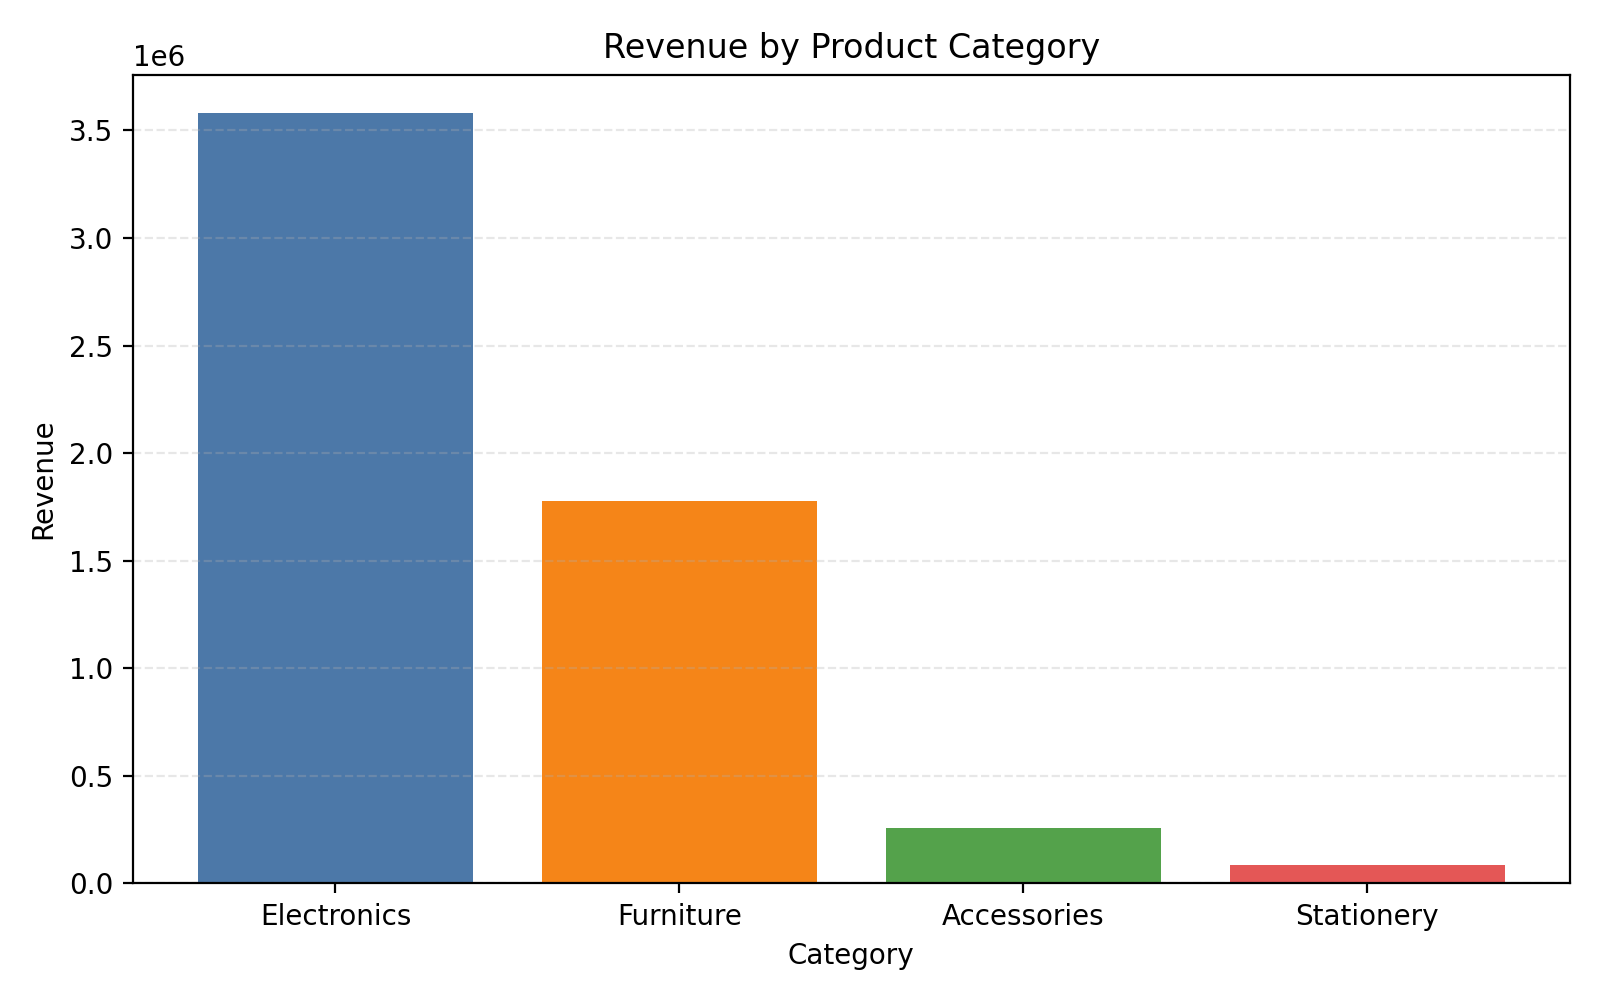
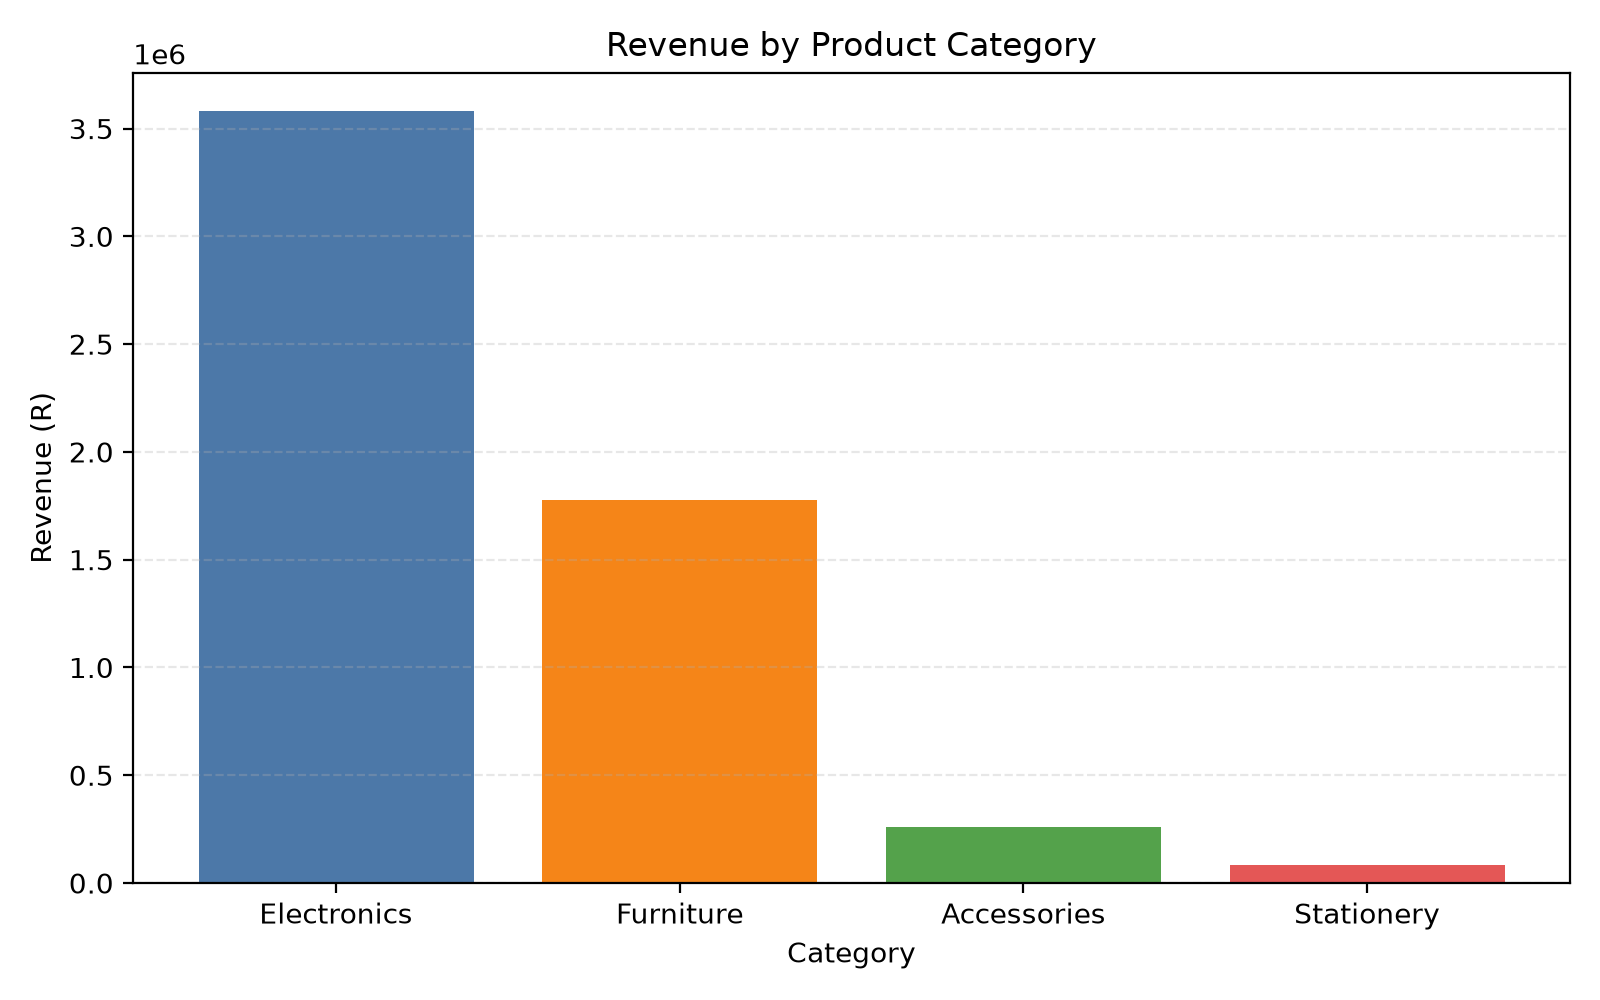
feat: expand dashboard metrics and add Docker support
- Add customer, product, driver, vehicle, order-status, and delivery-time KPIs
- Display South African Rand (R) in dashboard summaries and charts
- Add Docker Compose setup for the app and MySQL database
- Resolve host MySQL port conflict by mapping to port 3307
- Document Docker setup and usage in README

diff --git a/python/business_insights.py b/python/business_insights.py
@@ -44,6 +44,8 @@ def calculate_business_insights(tables: dict[str, pd.DataFrame]) -> dict[str, An
     products = tables["products"].copy()
     order_items = tables["order_items"].copy()
     deliveries = tables["deliveries"].copy()
+    drivers = tables["drivers"].copy()
+    vehicles = tables["vehicles"].copy()
 
     for frame in (orders, customers, products, order_items, deliveries):
         for column in frame.columns:
@@ -62,9 +64,25 @@ def calculate_business_insights(tables: dict[str, pd.DataFrame]) -> dict[str, An
     total_revenue = float(revenue_by_category["category_revenue"].sum())
     avg_order_value = float(orders["total_amount"].mean()) if not orders.empty else 0.0
     total_orders = int(len(orders))
+    total_customers = int(customers["customer_id"].nunique())
+    total_products = int(products["product_id"].nunique())
+    total_drivers = int(drivers["driver_id"].nunique())
+    total_vehicles = int(vehicles["vehicle_id"].nunique())
     delivered_orders = int((deliveries["status"] == "Delivered").sum())
     total_deliveries = int(len(deliveries))
     delivery_success_rate = (delivered_orders / total_deliveries * 100) if total_deliveries else 0.0
+    pending_orders = int((orders["status"] == "Pending").sum()) if "status" in orders.columns else 0
+    processing_orders = int((orders["status"] == "Processing").sum()) if "status" in orders.columns else 0
+    cancelled_orders = int((orders["status"] == "Cancelled").sum()) if "status" in orders.columns else 0
+    total_order_items = int(len(order_items))
+
+    delivery_windows = deliveries.merge(orders[["order_id", "order_date"]], on="order_id", how="left")
+    delivery_windows["days_to_deliver"] = (
+        (delivery_windows["delivery_date"] - delivery_windows["order_date"]).dt.days
+    )
+    avg_delivery_days = float(
+        delivery_windows.loc[delivery_windows["status"] == "Delivered", "days_to_deliver"].mean()
+    ) if not delivery_windows.empty else 0.0
 
     revenue_by_city = (
         orders.merge(customers[["customer_id", "city"]], on="customer_id")
@@ -75,6 +93,17 @@ def calculate_business_insights(tables: dict[str, pd.DataFrame]) -> dict[str, An
         .sum()
         .rename(columns={"line_revenue": "revenue"})
         .sort_values(["city", "revenue"], ascending=[True, False])
+    )
+
+    city_revenue = (
+        orders.merge(customers[["customer_id", "city"]], on="customer_id")
+        .merge(order_items, on="order_id")
+        .merge(products[["product_id", "price"]], on="product_id")
+        .assign(line_revenue=lambda df: df["quantity"] * df["price"])
+        .groupby("city", as_index=False)["line_revenue"]
+        .sum()
+        .rename(columns={"line_revenue": "city_revenue"})
+        .sort_values("city_revenue", ascending=False)
     )
 
     customer_spend = (
@@ -96,21 +125,33 @@ def calculate_business_insights(tables: dict[str, pd.DataFrame]) -> dict[str, An
     best_category = revenue_by_category.iloc[0].to_dict() if not revenue_by_category.empty else {}
     top_customer = customer_spend.iloc[0].to_dict() if not customer_spend.empty else {}
     top_driver = delivery_per_driver.iloc[0].to_dict() if not delivery_per_driver.empty else {}
+    top_city = city_revenue.iloc[0].to_dict() if not city_revenue.empty else {}
 
     return {
         "total_orders": total_orders,
+        "total_customers": total_customers,
+        "total_products": total_products,
+        "total_drivers": total_drivers,
+        "total_vehicles": total_vehicles,
         "total_revenue": total_revenue,
         "avg_order_value": avg_order_value,
+        "avg_delivery_days": avg_delivery_days,
         "total_deliveries": total_deliveries,
         "delivered_orders": delivered_orders,
+        "pending_orders": pending_orders,
+        "processing_orders": processing_orders,
+        "cancelled_orders": cancelled_orders,
+        "total_order_items": total_order_items,
         "delivery_success_rate": delivery_success_rate,
         "revenue_by_category": revenue_by_category,
         "revenue_by_city": revenue_by_city,
+        "city_revenue": city_revenue,
         "customer_spend": customer_spend,
         "delivery_per_driver": delivery_per_driver,
         "best_category": best_category,
         "top_customer": top_customer,
         "top_driver": top_driver,
+        "top_city": top_city,
     }
 
 
@@ -120,29 +161,39 @@ def save_summary_markdown(insights: dict[str, Any], output_path: Path) -> None:
     category = insights["best_category"]
     customer = insights["top_customer"]
     driver = insights["top_driver"]
+    city = insights["top_city"]
 
     summary = f"""# Delivery Business Summary
 
 ## KPIs
 - Total orders: {insights['total_orders']}
-- Total revenue: $ {insights['total_revenue']:,.2f}
-- Average order value: $ {insights['avg_order_value']:,.2f}
+- Total customers: {insights['total_customers']}
+- Total products: {insights['total_products']}
+- Total drivers: {insights['total_drivers']}
+- Total vehicles: {insights['total_vehicles']}
+- Total revenue: R {insights['total_revenue']:,.2f}
+- Average order value: R {insights['avg_order_value']:,.2f}
+- Average days to deliver: {insights['avg_delivery_days']:.1f} days
 - Total deliveries: {insights['total_deliveries']}
 - Delivered orders: {insights['delivered_orders']}
 - Delivery success rate: {insights['delivery_success_rate']:.1f}%
+- Pending orders: {insights['pending_orders']}
+- Processing orders: {insights['processing_orders']}
+- Cancelled orders: {insights['cancelled_orders']}
 
 ## Top performers
-- Top revenue category: {category.get('category', 'N/A')} ($ {category.get('category_revenue', 0):,.2f})
-- Top customer: {customer.get('name', 'N/A')} from {customer.get('city', 'N/A')} ($ {customer.get('total_spent', 0):,.2f})
+- Top revenue category: {category.get('category', 'N/A')} (R {category.get('category_revenue', 0):,.2f})
+- Top city by revenue: {city.get('city', 'N/A')} (R {city.get('city_revenue', 0):,.2f})
+- Top customer: {customer.get('name', 'N/A')} from {customer.get('city', 'N/A')} (R {customer.get('total_spent', 0):,.2f})
 - Top driver by delivery count: {driver.get('name', 'N/A')} ({driver.get('delivery_count', 0)} deliveries)
 
 ## Revenue by category
-| Category | Revenue |
+| Category | Revenue (R) |
 | --- | ---: |
 """
 
     for _, row in insights["revenue_by_category"].iterrows():
-        summary += f"| {row['category']} | $ {row['category_revenue']:,.2f} |\n"
+        summary += f"| {row['category']} | R {row['category_revenue']:,.2f} |\n"
 
     output_path.write_text(summary, encoding="utf-8")
 
@@ -157,7 +208,7 @@ def save_category_chart(revenue_by_category: pd.DataFrame, output_path: Path) ->
     ax.bar(categories, revenue, color=["#4c78a8", "#f58518", "#54a24b", "#e45756"])
     ax.set_title("Revenue by Product Category")
     ax.set_xlabel("Category")
-    ax.set_ylabel("Revenue")
+    ax.set_ylabel("Revenue (R)")
     ax.grid(axis="y", linestyle="--", alpha=0.3)
     plt.tight_layout()
     fig.savefig(output_path, dpi=200)
@@ -176,8 +227,10 @@ def main() -> None:
     save_category_chart(insights["revenue_by_category"], args.report_dir / "revenue_by_category.png")
 
     print(f"Total orders: {insights['total_orders']}")
-    print(f"Total revenue: $ {insights['total_revenue']:,.2f}")
-    print(f"Average order value: $ {insights['avg_order_value']:,.2f}")
+    print(f"Total customers: {insights['total_customers']}")
+    print(f"Total revenue: R {insights['total_revenue']:,.2f}")
+    print(f"Average order value: R {insights['avg_order_value']:,.2f}")
+    print(f"Average days to deliver: {insights['avg_delivery_days']:.1f} days")
     print(f"Delivery success rate: {insights['delivery_success_rate']:.1f}%")
     print(f"Saved summary to {args.report_dir / 'business_summary.md'}")
     print(f"Saved chart to {args.report_dir / 'revenue_by_category.png'}")

diff --git a/README.md b/README.md
@@ -212,6 +212,47 @@ python python/business_insights.py
 
 This script reads the cleaned CSVs in `data/processed/`, calculates key metrics such as revenue by category, average order value, and delivery success rate, and writes the outputs to `reports/business_summary.md` and `reports/revenue_by_category.png`.
 
+## Docker quickstart
+
+The project can be run end-to-end with Docker Compose.
+
+1. Copy the sample environment file if you want to override defaults:
+
+```bash
+cp .env.example .env
+```
+
+2. Start the database and app containers:
+
+```bash
+docker compose up --build
+```
+
+This will:
+- start a MySQL 8 container with the SQL init scripts from `sql/`
+- build the Python app container
+- generate the sample dataset
+- run the ETL pipeline in dry-run mode
+- generate the business summary and chart
+
+MySQL is exposed on `localhost:3307` to avoid conflicting with a local MySQL
+server already using port `3306`. Containers communicate with MySQL on port
+`3306` internally.
+
+3. Open the application shell if you need to run commands manually:
+
+```bash
+docker compose exec app bash
+```
+
+4. To stop everything:
+
+```bash
+docker compose down
+```
+
+To persist the MySQL data across restarts, the `mysql_data` volume is created automatically.
+
 ## Automated tests
 
 GitHub Actions runs the quality tests on pushes and pull requests. The test workflow needs no API or database secrets and can also be started manually from the Actions tab.

diff --git a/reports/business_summary.md b/reports/business_summary.md
@@ -2,21 +2,30 @@
 
 ## KPIs
 - Total orders: 1000
-- Total revenue: $ 5,701,783.00
-- Average order value: $ 5,701.78
+- Total customers: 250
+- Total products: 35
+- Total drivers: 30
+- Total vehicles: 24
+- Total revenue: R 5,701,783.00
+- Average order value: R 5,701.78
+- Average days to deliver: 2.4 days
 - Total deliveries: 965
 - Delivered orders: 904
 - Delivery success rate: 93.7%
+- Pending orders: 0
+- Processing orders: 26
+- Cancelled orders: 35
 
 ## Top performers
-- Top revenue category: Electronics ($ 3,580,373.00)
-- Top customer: Dineo Williams from Bloemfontein ($ 91,868.00)
+- Top revenue category: Electronics (R 3,580,373.00)
+- Top city by revenue: Midrand (R 465,906.00)
+- Top customer: Dineo Williams from Bloemfontein (R 91,868.00)
 - Top driver by delivery count: James Gumede (42 deliveries)
 
 ## Revenue by category
-| Category | Revenue |
+| Category | Revenue (R) |
 | --- | ---: |
-| Electronics | $ 3,580,373.00 |
-| Furniture | $ 1,777,451.00 |
-| Accessories | $ 258,981.00 |
-| Stationery | $ 84,978.00 |
+| Electronics | R 3,580,373.00 |
+| Furniture | R 1,777,451.00 |
+| Accessories | R 258,981.00 |
+| Stationery | R 84,978.00 |
